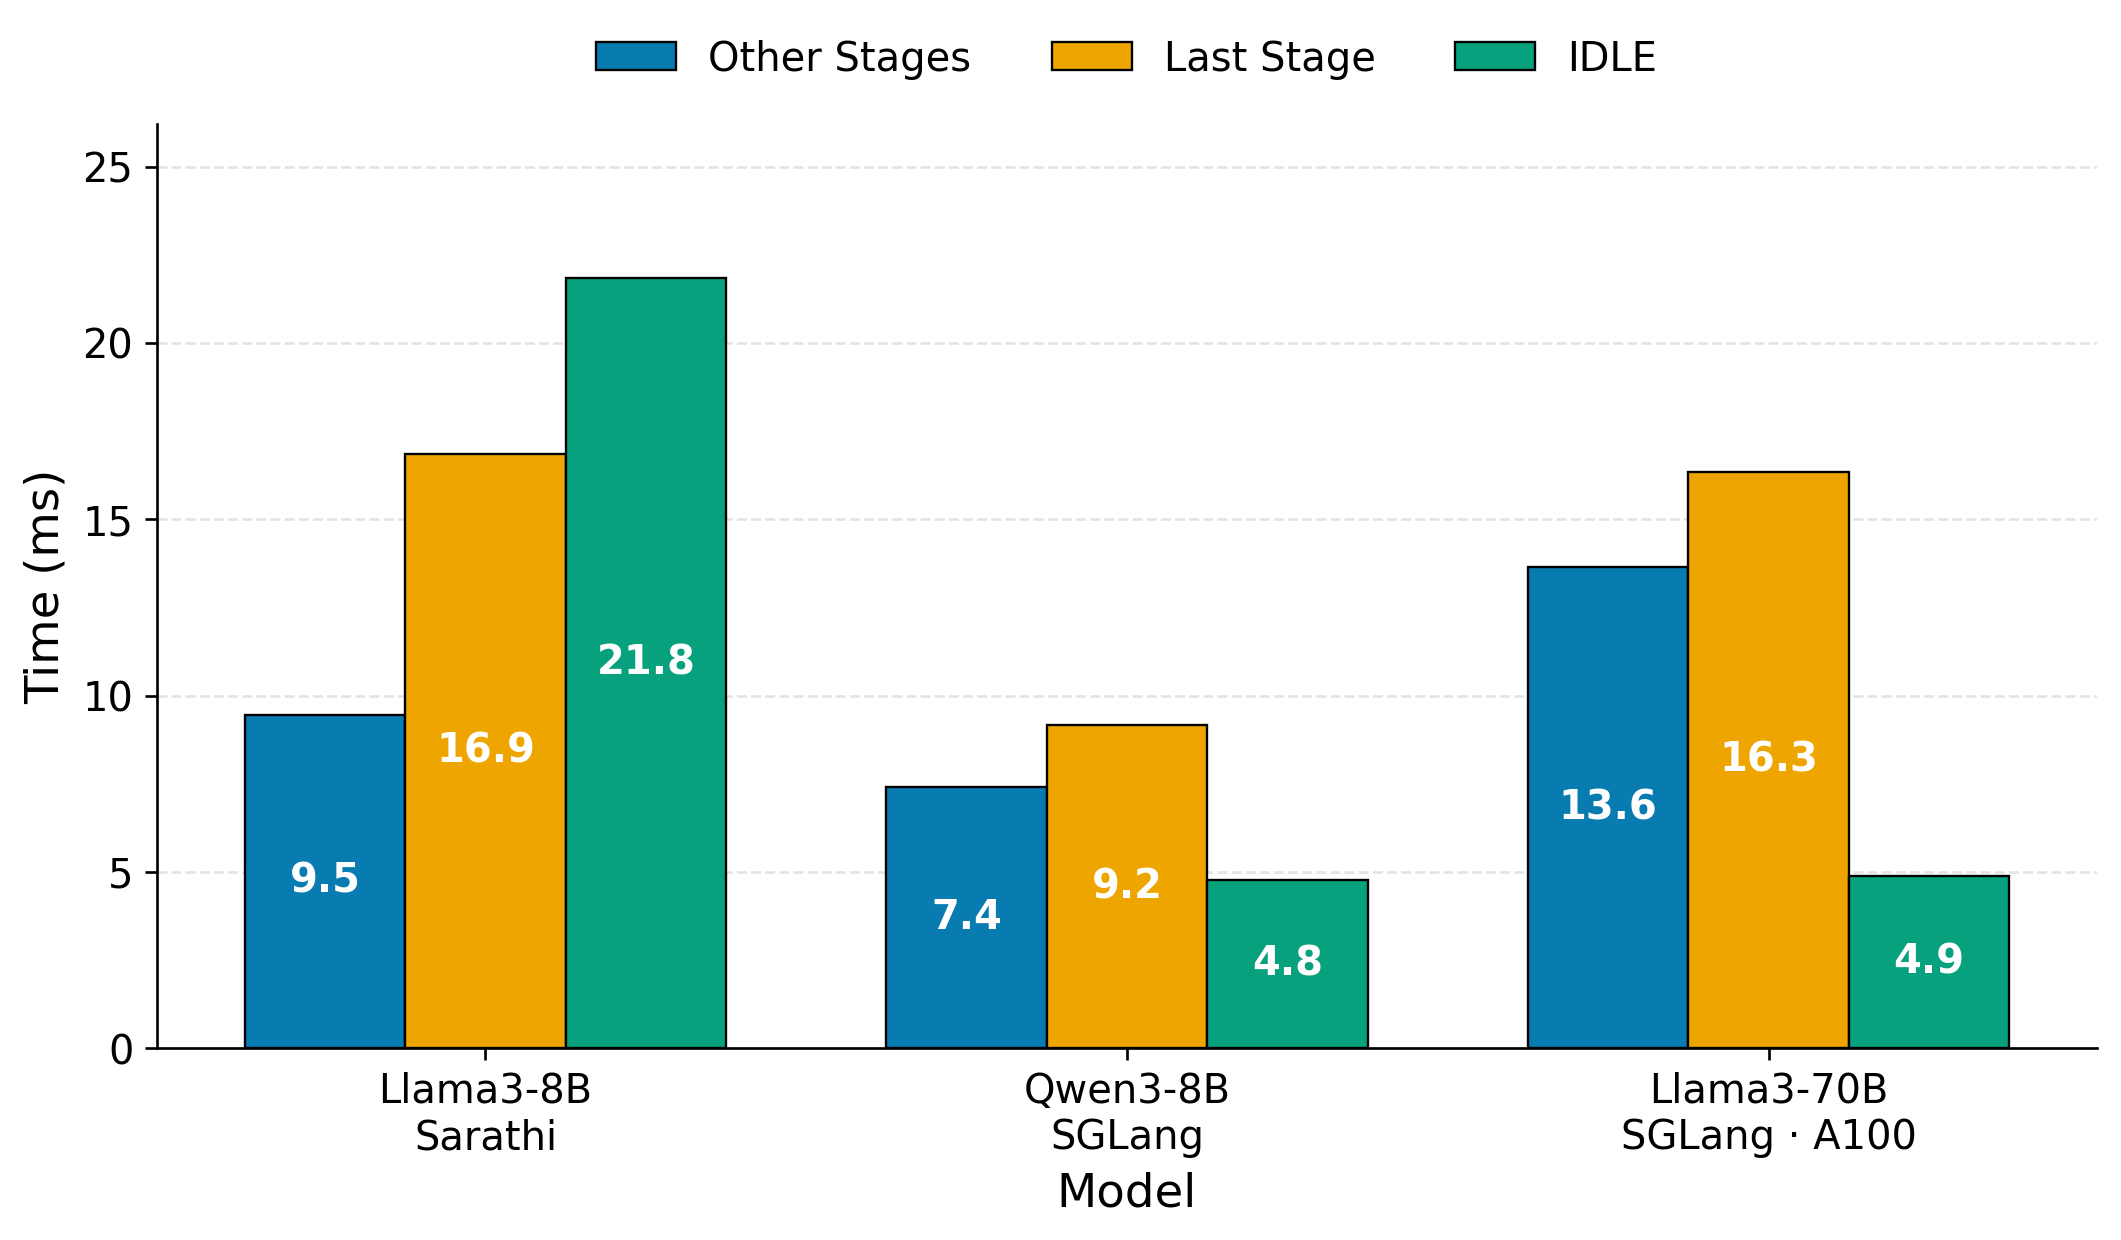
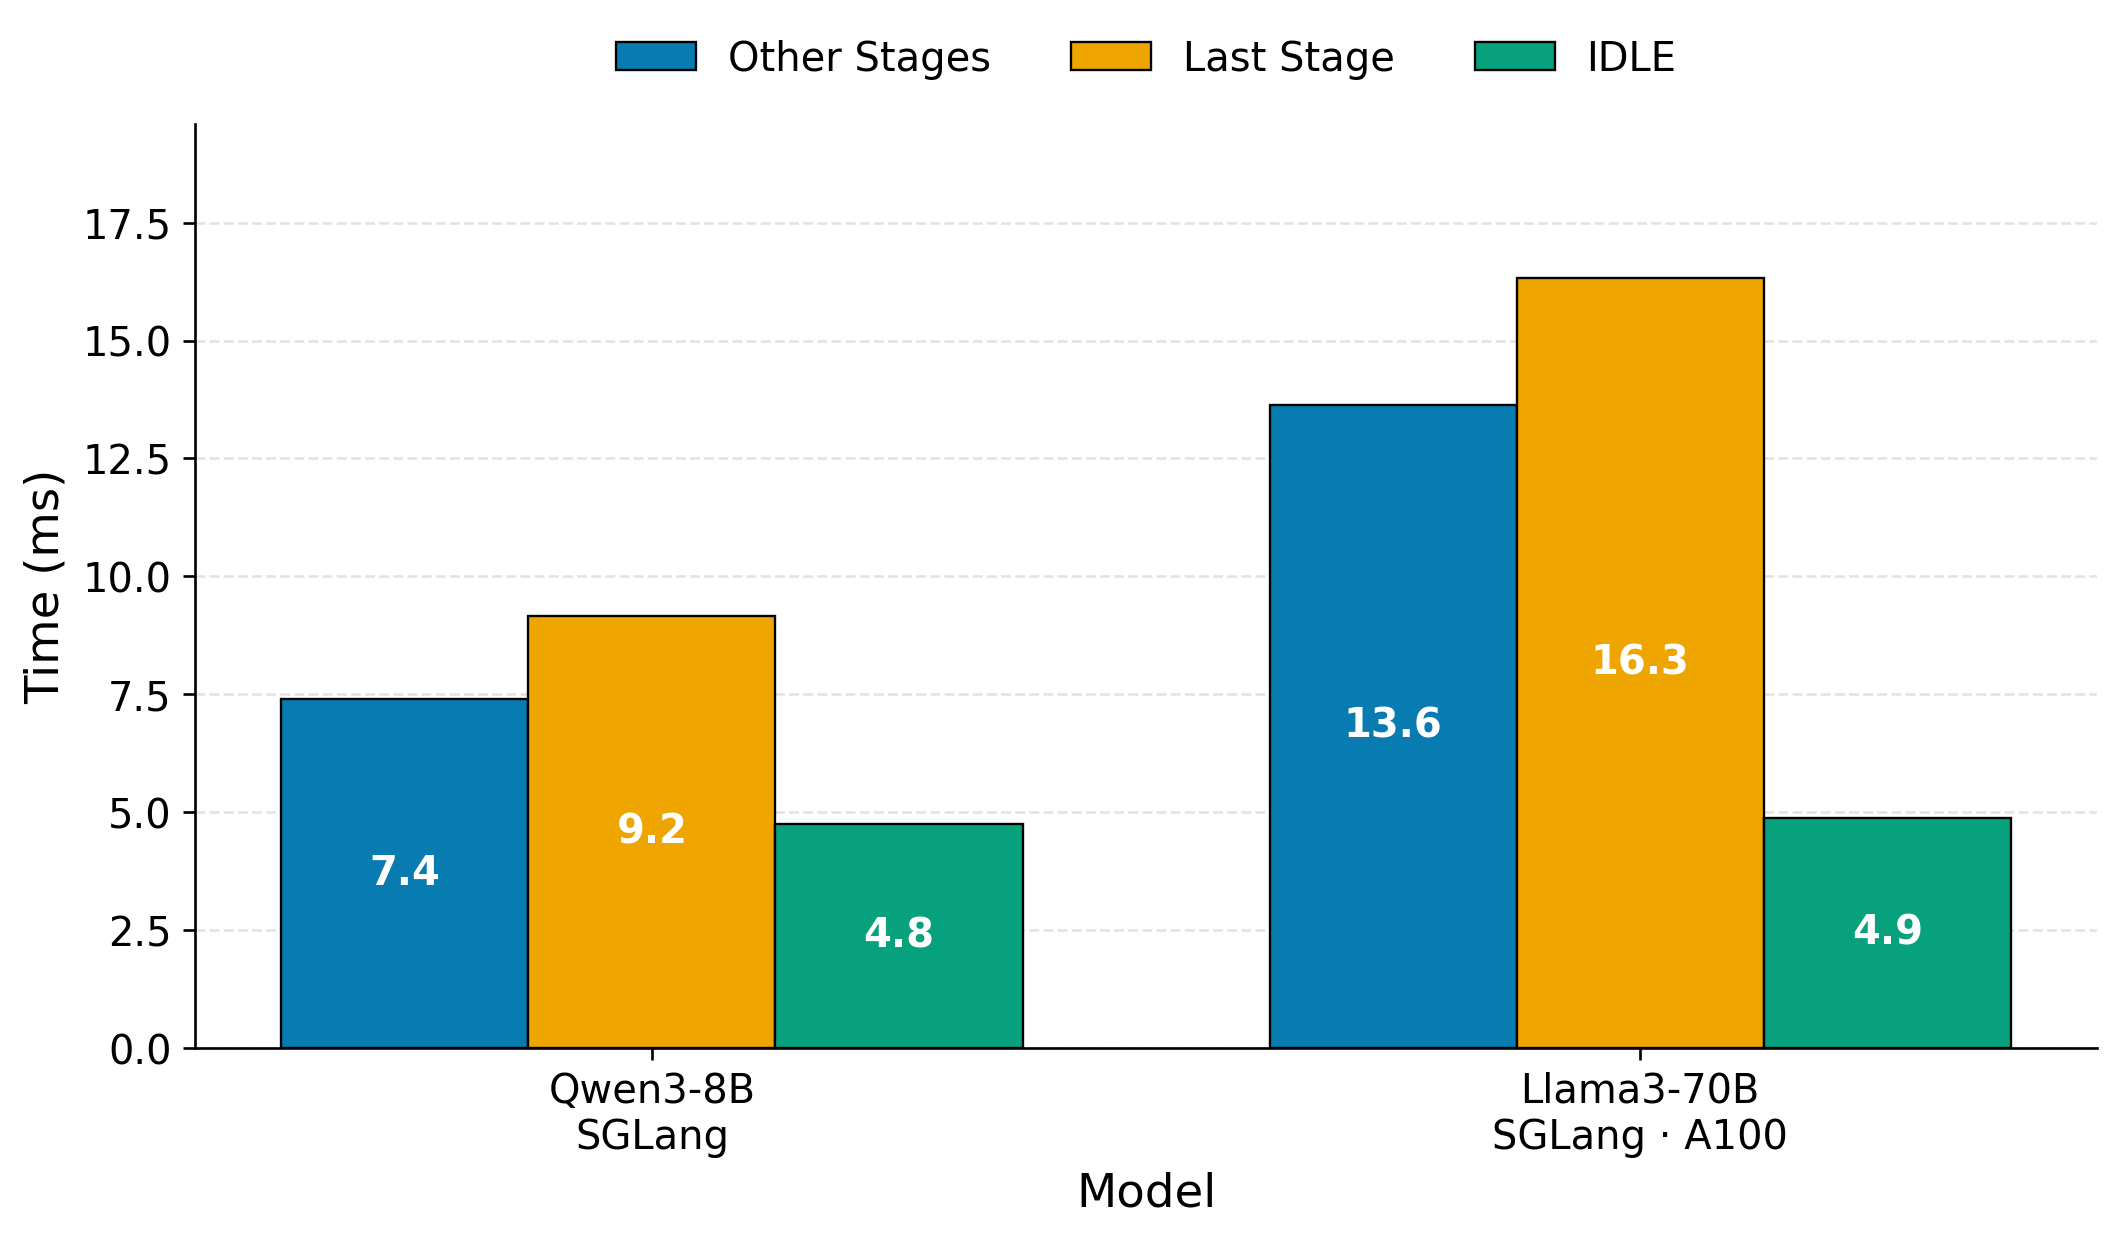
Keep Qwen and Llama 70B in Fig 3 preview

diff --git a/figures/hcw_figures/fig3_qwen_a100_20261018/plot.py b/figures/hcw_figures/fig3_qwen_a100_20261018/plot.py
@@ -1,0 +1,68 @@
+#!/usr/bin/env python3
+"""Rebuild the two-model Fig. 3 preview from its frozen Auto summaries."""
+
+import csv
+from pathlib import Path
+
+import matplotlib
+
+matplotlib.use("Agg")
+import matplotlib.pyplot as plt
+import numpy as np
+
+
+HERE = Path(__file__).resolve().parent
+OUTPUT = HERE.parent
+STEM = "Fig3_auto_stage_idle_sharegpt_bs256_20261017"
+SERIES = (
+    ("Other Stages", "other_ms", "#087bb1", -1),
+    ("Last Stage", "last_ms", "#efa500", 0),
+    ("IDLE", "idle_ms", "#07a17e", 1),
+)
+
+
+def load():
+    with (HERE / "values.csv").open(newline="") as file:
+        rows = list(csv.DictReader(file))
+    assert len(rows) == 2
+    assert [row["model"].split("\n")[0] for row in rows] == ["Qwen3-8B", "Llama3-70B"]
+    assert all(row["dataset"] == "ShareGPT" and row["bs"] == "256" for row in rows)
+    for row in rows:
+        for key in ("other_ms", "last_ms", "idle_ms"):
+            row[key] = float(row[key])
+            assert row[key] > 0
+    return rows
+
+
+def main():
+    rows = load()
+    plt.rcParams.update({"font.family": "DejaVu Sans", "font.size": 12,
+                         "axes.labelsize": 14, "axes.spines.top": False,
+                         "axes.spines.right": False})
+    fig, ax = plt.subplots(figsize=(9.0, 5.4))
+    x = np.arange(len(rows))
+    width = 0.25
+    for label, key, color, position in SERIES:
+        bars = ax.bar(x + position * width, [row[key] for row in rows], width,
+                      label=label, color=color, edgecolor="black", linewidth=0.7)
+        for bar in bars:
+            height = bar.get_height()
+            ax.text(bar.get_x() + bar.get_width() / 2, height / 2,
+                    f"{height:.1f}", ha="center", va="center", color="white",
+                    fontweight="bold", fontsize=12)
+    ax.set_xticks(x, [row["model"] for row in rows])
+    ax.set_ylabel("Time (ms)")
+    ax.set_xlabel("Model")
+    ax.set_ylim(0, max(row[key] for row in rows for _, key, _, _ in SERIES) * 1.2)
+    ax.yaxis.grid(True, ls="--", alpha=0.35)
+    ax.set_axisbelow(True)
+    ax.legend(ncol=3, loc="upper center", bbox_to_anchor=(0.5, 1.13), frameon=False)
+    fig.tight_layout()
+    for extension in ("pdf", "png"):
+        fig.savefig(OUTPUT / f"{STEM}.{extension}", dpi=240, bbox_inches="tight")
+    plt.close(fig)
+    print("Saved", OUTPUT / STEM)
+
+
+if __name__ == "__main__":
+    main()

diff --git a/figures/hcw_figures/fig3_qwen_a100_20261018/README.md b/figures/hcw_figures/fig3_qwen_a100_20261018/README.md
@@ -1,0 +1,15 @@
+# Fig. 3 two-model preview
+
+This version of `../Fig3_auto_stage_idle_sharegpt_bs256_20261017.png` and
+`.pdf` retains only Qwen3-8B/SGLang/RTX 3090 and
+Llama3-70B/SGLang/A100. Both use ShareGPT, BS256, and Auto frequency.
+The values and three-bar styling are unchanged from the earlier preview.
+
+`values.csv` is a snapshot of the two rows in
+`/home/hcw/LLM_pipeline_infer/analysis/fig3_auto_stage_idle_20261017/fig3_auto_values_bs256.csv`.
+Run `python plot.py` in this folder to regenerate both output files.
+
+The bars use separate statistics: Other Stages and Last Stage are average
+pure-decode compute durations; IDLE is the average gap between adjacent
+pure-decode compute intervals on nonfinal stages. The bars should not be
+summed. The paper's LaTeX source does not yet reference this preview.

diff --git a/figures/hcw_figures/README.md b/figures/hcw_figures/README.md
@@ -5,6 +5,7 @@ This folder holds the PDF and PNG figures generated for the local paper revision
 | Figure group | Files |
 | --- | --- |
 | Fig. 3 and Fig. 4 | `Fig3_*`, `Fig4_*` |
+| Fig. 3 current selection | `Fig3_auto_stage_idle_sharegpt_bs256_20261017.*` now shows Qwen3-8B and Llama3-70B only; `fig3_qwen_a100_20261018/` contains its script and values. |
 | Fig. 4 fixed-frequency example | `fig4_sarathi_sharegpt_bs256_freq1200/` contains the Sarathi ShareGPT BS256 1200 MHz rep1 plot, script, and derived tables. |
 | Fig. 6 and Fig. 7 | `Fig6_*`, `Fig7_*` (model and dataset variants) |
 | Fig. 9 and Fig. 10 | `Fig9_*`, `Fig10_*` |
